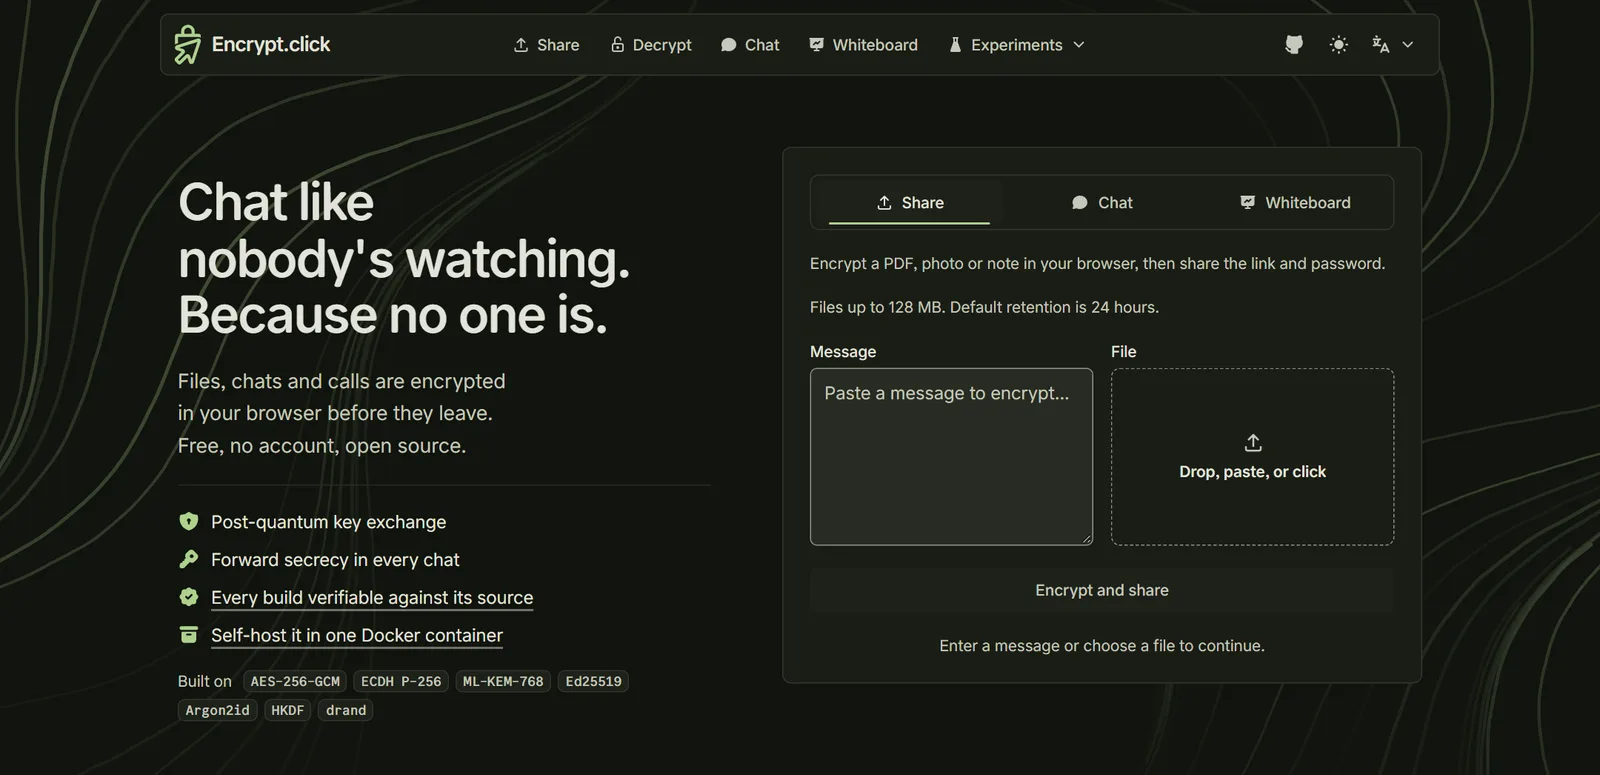
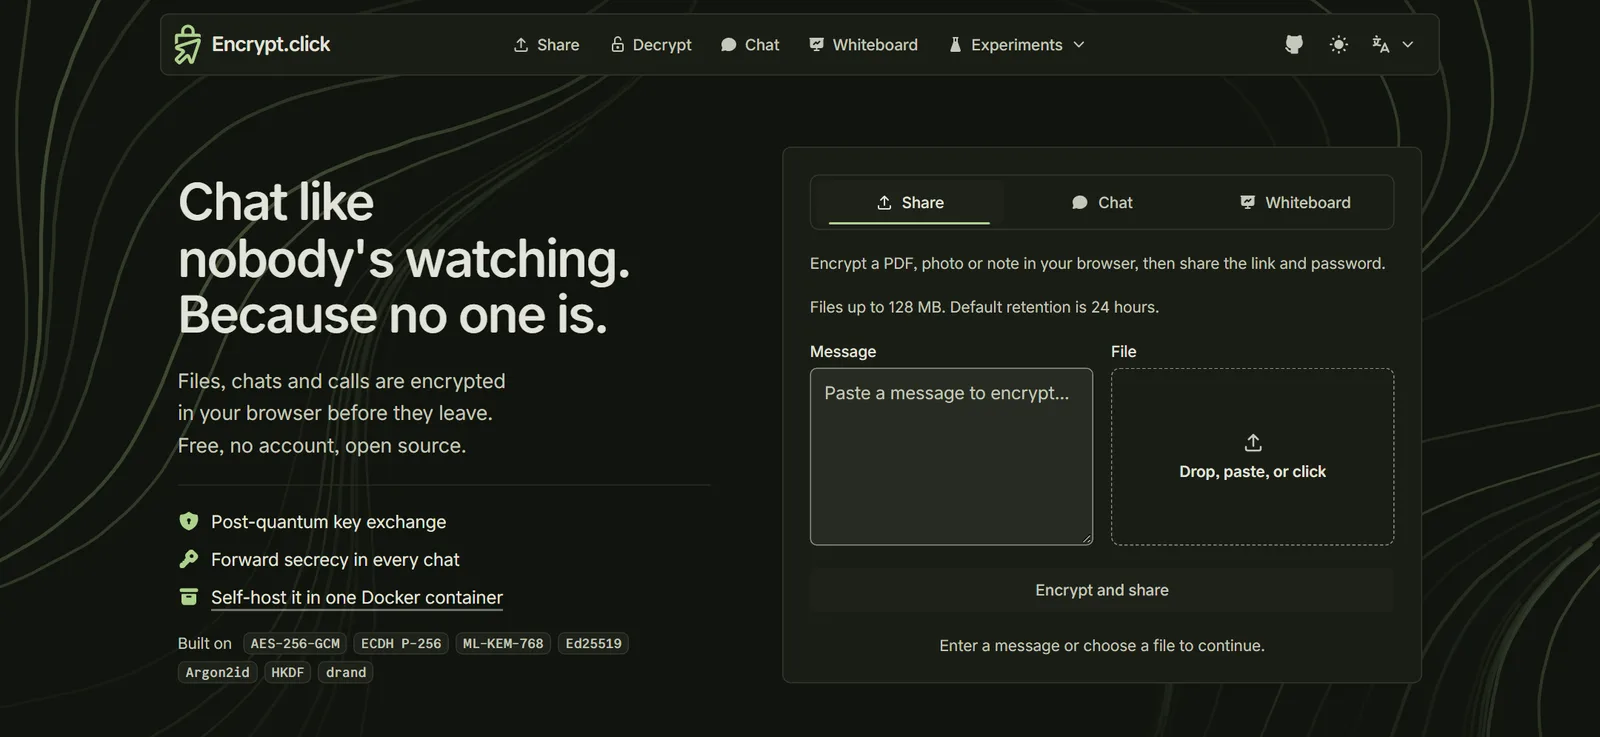
feat(home): self-hosting becomes the third and last hero point, the readme gets docker run quick starts

diff --git a/README.md b/README.md
@@ -197,7 +197,23 @@ pnpm exec wrangler r2 bucket lifecycle remove encrypt-r2 --name <old whole-bucke
 
 ### Self-host with Docker
 
-The same code also runs as a single Node.js server. `pnpm run build:node` builds it into `dist/`, and the [`Dockerfile`](Dockerfile) packs it with Caddy for HTTPS and coturn for call relays, so one `docker run` with `DOMAIN` set is a complete instance. See [`docs/self-hosting.md`](docs/self-hosting.md).
+The same code also runs as a single Node.js server. The [`Dockerfile`](Dockerfile) packs it with Caddy for HTTPS and coturn for call relays, so one container is a complete instance: pages, uploads, chat and whiteboard rooms and calls.
+
+Try it on your own machine, no domain needed:
+
+```bash
+git clone https://github.com/danielsebesta/encrypt.git && cd encrypt
+docker build -t encrypt-click .
+docker run --rm -p 8080:8080 encrypt-click
+```
+
+Then open http://localhost:8080. Calls need the TURN relay, which turns on with a domain. For a public instance, point a domain at a Linux host and run:
+
+```bash
+docker run -d --name encrypt --restart unless-stopped --network host   -e DOMAIN=encrypt.example.com -e ACME_EMAIL=admin@example.com   -v encrypt-data:/data encrypt-click
+```
+
+Caddy fetches the certificate on the first request, secrets are generated into the volume on the first start, and coturn listens on port 3478. `docker compose up -d --build` does the same with [`docker-compose.yml`](docker-compose.yml). Configuration, ports, backups and upgrades are in [`docs/self-hosting.md`](docs/self-hosting.md).
 
 ## Verify what is served
 
